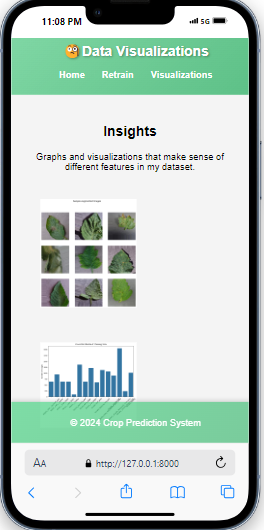
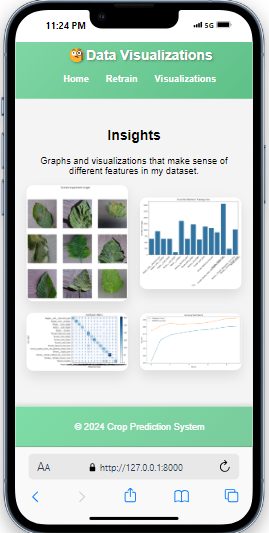
updates

Changed region(s): [[0.0, 0.0, 1.0, 1.0], [0.1212, 0.2415, 0.8485, 0.3321]]

diff --git a/src/templates/visualizations.html b/src/templates/visualizations.html
@@ -136,17 +136,65 @@ button {
 button:hover {
     background-color: #45a049;
 }
-.visualizations {
-  display: flex;
-  flex-wrap: wrap;
-  justify-content: space-between;
-}
+.visualizations-grid {
+            display: grid;
+            grid-template-columns: repeat(2, 1fr);
+            gap: 20px;
+            justify-content: center;
+            align-items: center;
+        }
 
-.visualizations img {
-  width: 45%; /* Reduced width to 45% */
-  height: auto;
-  padding: 30px; /* Added 10px padding around each image */
-}
+        .visualization-card {
+            background-color: white;
+            border-radius: 12px;
+            box-shadow: 0 10px 20px rgba(0,0,0,0.1);
+            overflow: hidden;
+            transition: transform 0.3s ease, box-shadow 0.3s ease;
+        }
+
+        .visualization-card:hover {
+            transform: scale(1.05);
+            box-shadow: 0 15px 30px rgba(0,0,0,0.15);
+        }
+
+        .visualization-card img {
+            width: 100%;
+            height: auto;
+            object-fit: cover;
+            transition: opacity 0.3s ease;
+        }
+
+        .visualization-card .overlay {
+            position: absolute;
+            bottom: 0;
+            left: 0;
+            right: 0;
+            background-color: rgba(0,0,0,0.6);
+            overflow: hidden;
+            width: 100%;
+            height: 0;
+            transition: 0.5s ease;
+        }
+
+        .visualization-card:hover .overlay {
+            height: 30%;
+        }
+
+        .visualization-card .overlay-text {
+            color: white;
+            font-size: 14px;
+            position: absolute;
+            top: 50%;
+            left: 50%;
+            transform: translate(-50%, -50%);
+            text-align: center;
+            opacity: 0;
+            transition: 0.5s ease;
+        }
+
+        .visualization-card:hover .overlay-text {
+            opacity: 1;
+        }
 
 @media (max-width: 600px) {
     header h1 {
@@ -174,11 +222,39 @@ button:hover {
         <section>
             <h2>Insights</h2>
             <p>Graphs and visualizations that make sense of different features in my dataset.</p>
-            <div class="visualizations">
-                <img src="/static/images/samples.png" alt="Samples">
-                <img src="/static/images/classes.png" alt="Classes">
-                <img src="/static/images/confusion.png" alt="Confusion Matrix">
-                <img src="/static/images/graphs.png" alt="Graphs">
+            <div class="visualizations-grid">
+                <div class="visualization-card">
+                    <img src="/static/images/samples.png" alt="Samples">
+                    <div class="overlay"></div>
+                    <div class="overlay-text">
+                        <h3>Sample Distribution</h3>
+                        <p>Detailed view of data samples</p>
+                    </div>
+                </div>
+                <div class="visualization-card">
+                    <img src="/static/images/classes.png" alt="Classes">
+                    <div class="overlay"></div>
+                    <div class="overlay-text">
+                        <h3>Class Distribution</h3>
+                        <p>Breakdown of class representation</p>
+                    </div>
+                </div>
+                <div class="visualization-card">
+                    <img src="/static/images/confusion.png" alt="Confusion Matrix">
+                    <div class="overlay"></div>
+                    <div class="overlay-text">
+                        <h3>Confusion Matrix</h3>
+                        <p>Model performance analysis</p>
+                    </div>
+                </div>
+                <div class="visualization-card">
+                    <img src="/static/images/graphs.png" alt="Graphs">
+                    <div class="overlay"></div>
+                    <div class="overlay-text">
+                        <h3>Performance Graphs</h3>
+                        <p>Comprehensive model metrics</p>
+                    </div>
+                </div>
             </div>
         </section>
     </main>
